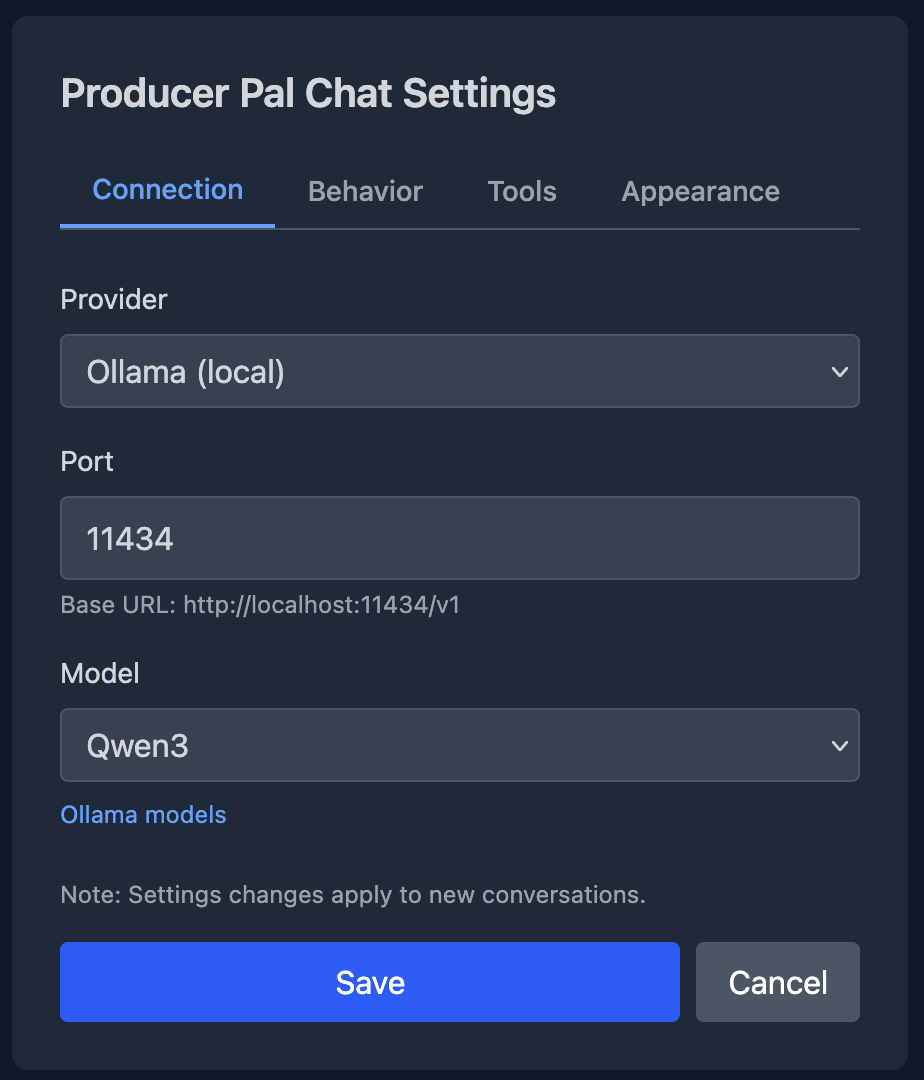
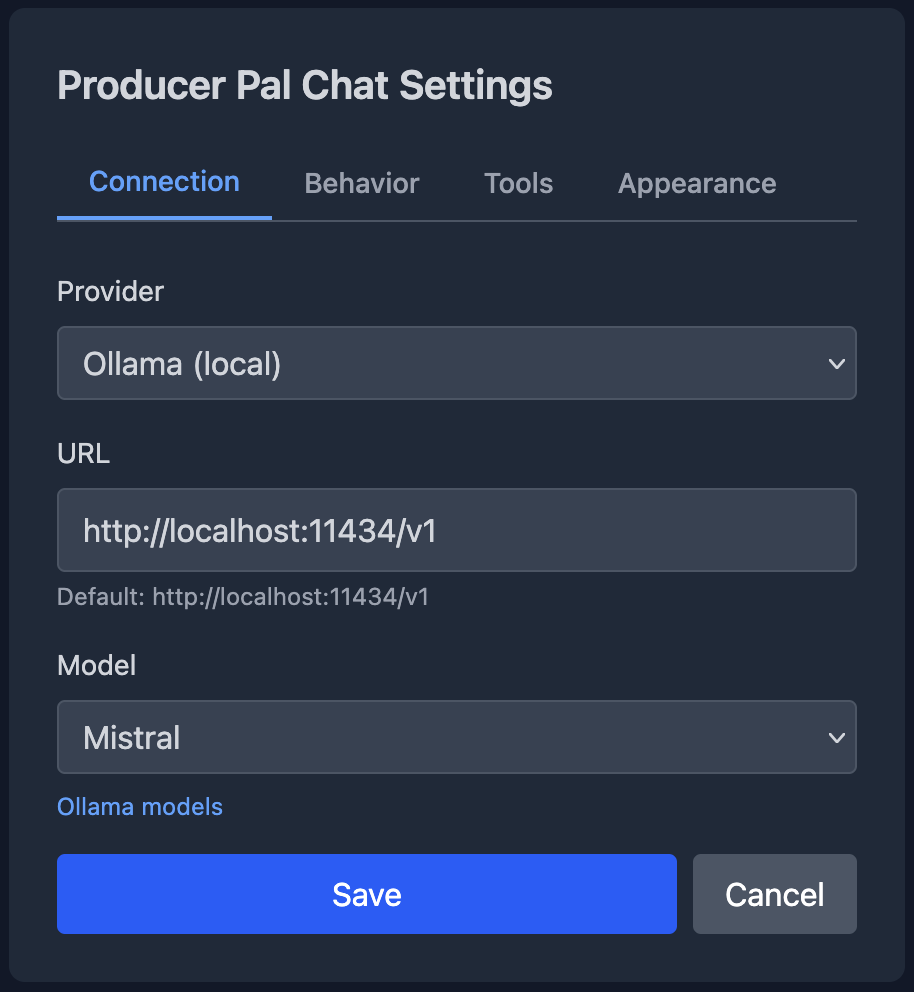
Update docs with info for running local models on a different computer from Ableton Live

diff --git a/docs/guide/chat-ui.md b/docs/guide/chat-ui.md
@@ -76,15 +76,23 @@ Configure your AI provider:
 <img src="/producer-pal-chat-settings-connection-ollama.png" alt="Ollama settings" width="500"/>
 
 Local models, such as those you can run with Ollama, do not require any API
-keys. Instead, they have a configurable port.
+keys. Instead, they have a configurable URL.
 
-- **Port** - Local port (default: 11434 for Ollama, 1234 for LM Studio)
+- **URL** - Server address (default: `http://localhost:11434/v1` for Ollama,
+  `http://localhost:1234/v1` for LM Studio)
 - **Model** - Select from installed models
 
-With Ollama, you almost never need to change this from the default Ollama port
-(11434) unless you've modified advanced settings for your Ollama installation.
-Similarly with LM Studio, if you change the port in LM Studio from its default,
-Producer Pal's chat UI must use the same port.
+In most cases, you should use the default URL. This is an advanced configuration
+option.
+
+You may need to change the URL if:
+
+- You've modified the port in your Ollama or LM Studio installation
+- You're running Ollama or LM Studio on a different computer on your local
+  network (or anywhere on the Internet). This allows another computer to handle
+  the resource-intensive language model processing while your main computer
+  focuses on running Ableton Live. Replace `localhost` with the other computer's
+  network address (e.g., `http://192.168.1.100:11434/v1`)
 
 #### Other models
 
@@ -99,8 +107,8 @@ model id. Consult your AI provider for the models that are currently available.
 
 Producer Pal can work with any AI provider that has an API compatible with
 OpenAI's chat API. Most providers support this. When setting up a custom
-provider, you also need to enter the **base URL** for the provider's API.
-Consult the provider's documentation to determine the correct setting.
+provider, you also need to enter the **URL** for the provider's API. Consult the
+provider's documentation to determine the correct setting.
 
 For example, one could use [groq.com](https://groq.com/) as follows:
 

diff --git a/docs/installation/chat-ui-other-providers.md b/docs/installation/chat-ui-other-providers.md
@@ -68,13 +68,13 @@ For other OpenAI-compatible providers:
 1. In the chat UI settings:
    - Provider: **Custom (OpenAI-compatible)**
    - API Key: Your provider's key
-   - Base URL: Your provider's API endpoint
+   - URL: Your provider's API endpoint
    - Model: The model name
 
 ### Example: Groq
 
 - Provider: Custom (OpenAI-compatible)
-- Base URL: `https://api.groq.com/openai/v1`
+- URL: `https://api.groq.com/openai/v1`
 - Model: `llama-3.3-70b-versatile`
 
 ## Privacy Note
@@ -96,7 +96,7 @@ with the built-in chat UI instead of [LM Studio's native UI](./lm-studio).
 4. Start the LM Studio server (should say "Status: Running")
 5. In the Producer Pal Chat UI settings:
    - Provider: **LM Studio (local)**
-   - Port: `1234` (default)
+   - URL: `http://localhost:1234/v1` (use the default in most cases)
    - Model: A model that supports tools, such as `qwen/qwen3-vl-8b`,
      `openai/gpt-oss-20b`, or `mistralai/magistral-small-2509`
 6. Save and click "Quick Connect"

diff --git a/docs/installation/ollama.md b/docs/installation/ollama.md
@@ -55,7 +55,11 @@ UI opens in a browser:
 In the chat UI settings:
 
 - Provider: **Ollama (local)**
-- Port: `11434` (default)
+- URL: `http://localhost:11434/v1`
+  - Use this default URL when everything runs on the same computer. Change
+    `localhost` to run Ollama on a different computer. Consult
+    [the user guide](/guide/chat-ui#local-ai-settings-ollama-lm-studio) for more
+    info.
 - Model: Your model name (e.g., `qwen3` or `qwen3:8b`)
 
 Click "Save".
